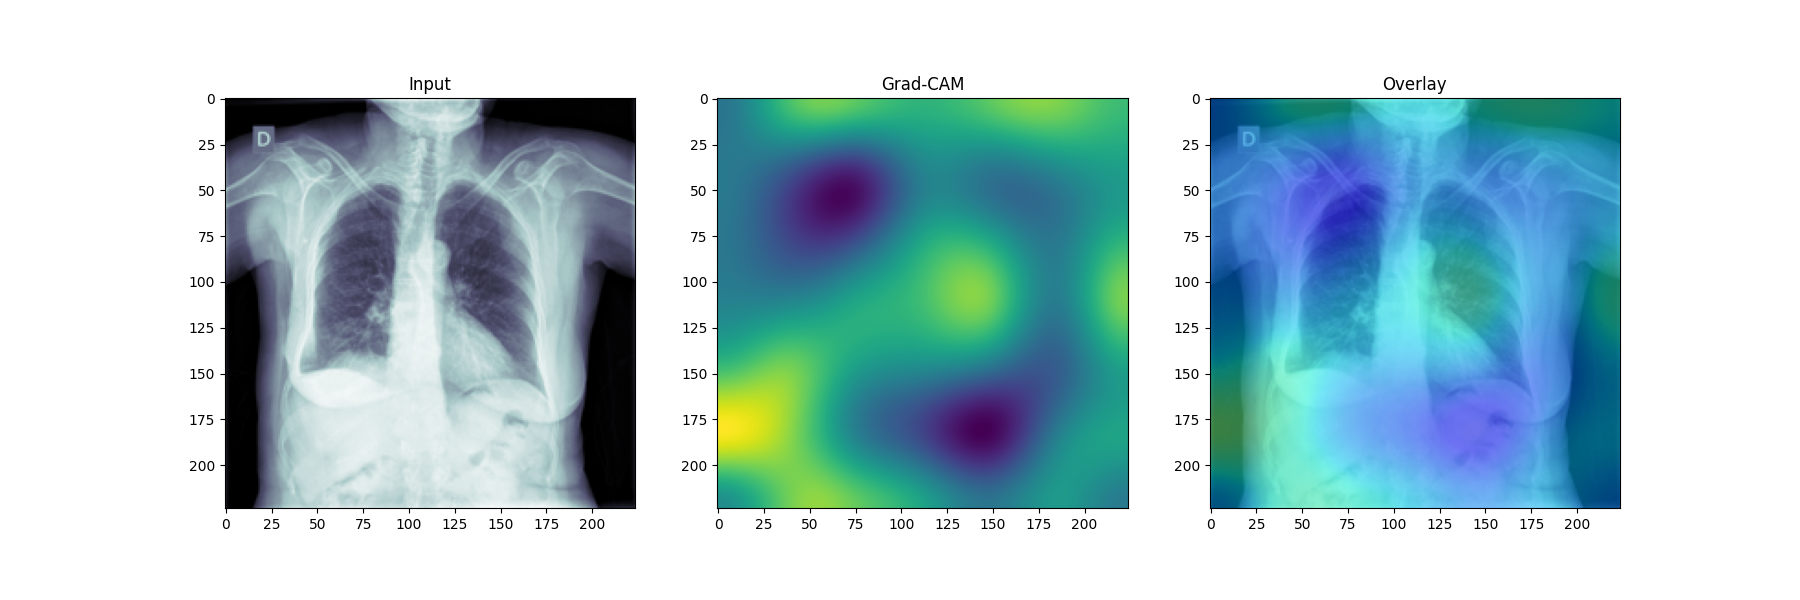
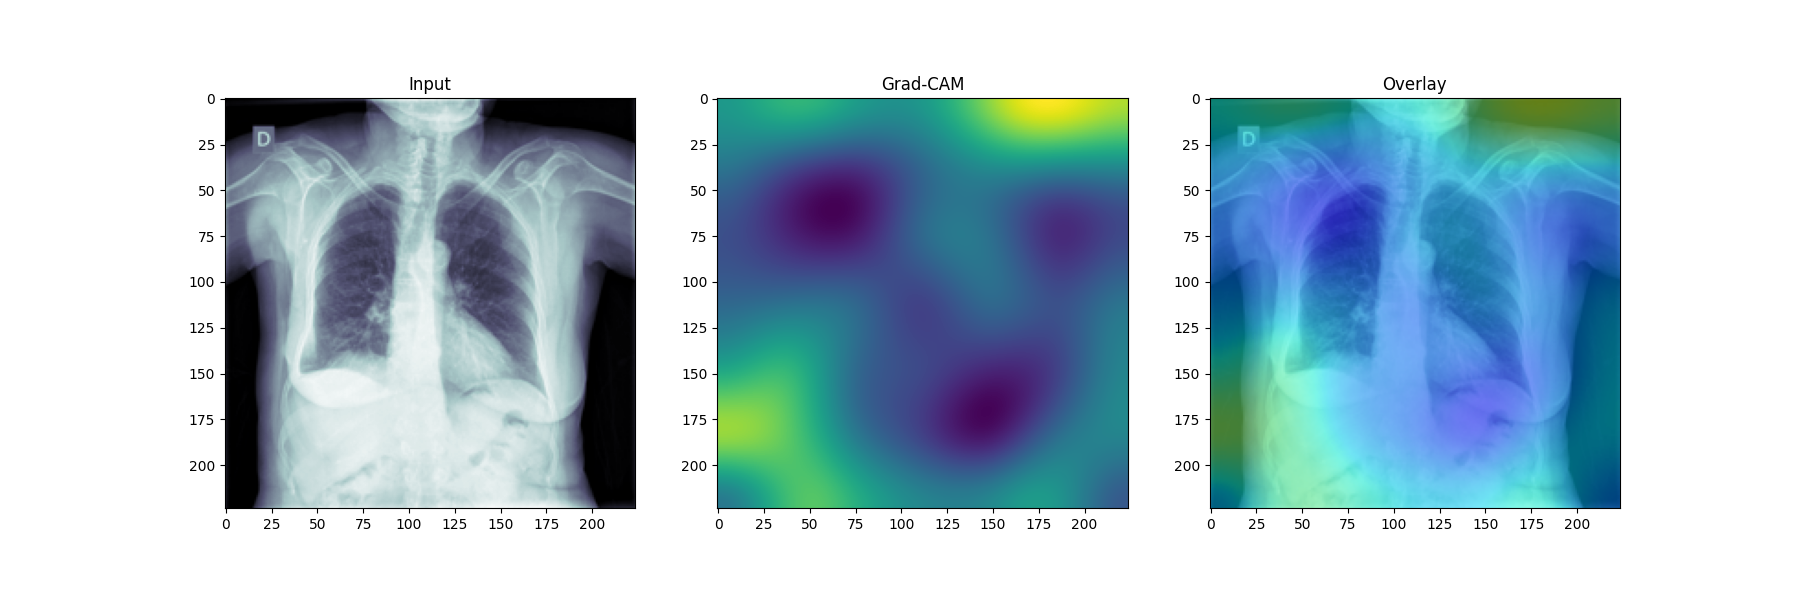
more gcam

diff --git a/kaggle/classification/evaluate.py b/kaggle/classification/evaluate.py
@@ -84,8 +84,11 @@ def create_gradCAMs(args):
     # initializing visualizations vector
     visualizations = [];
 
+    # penultimate layers
+    penultimate = ["bn", "mixed10", "conv_7b_bn", "conv5_block3_3_bn", "block14_sepconv2_bn"];
+
     # iterating over model names
-    for name in model_names:
+    for index, name in enumerate(model_names):
 
         # initializing model with access to weights
         init = model_dict[name]("/data/covid_weights/{}_224_up_crop.h5".format(weight_dict[name]));
@@ -103,11 +106,12 @@ def create_gradCAMs(args):
         # creating visualization
         n_layers = len(model.layers);
 
+
         visualization = visualize_cam(model,
                             layer_idx = n_layers - 1,
                             filter_indices = 0,
                             seed_input = img,
-                            penultimate_layer_idx = n_layers - 4);
+                            penultimate_layer_idx = utils.find_layer_idx(model, penultimate[index]));
         
         # saving visualizations
         visualizations.append(visualization);
